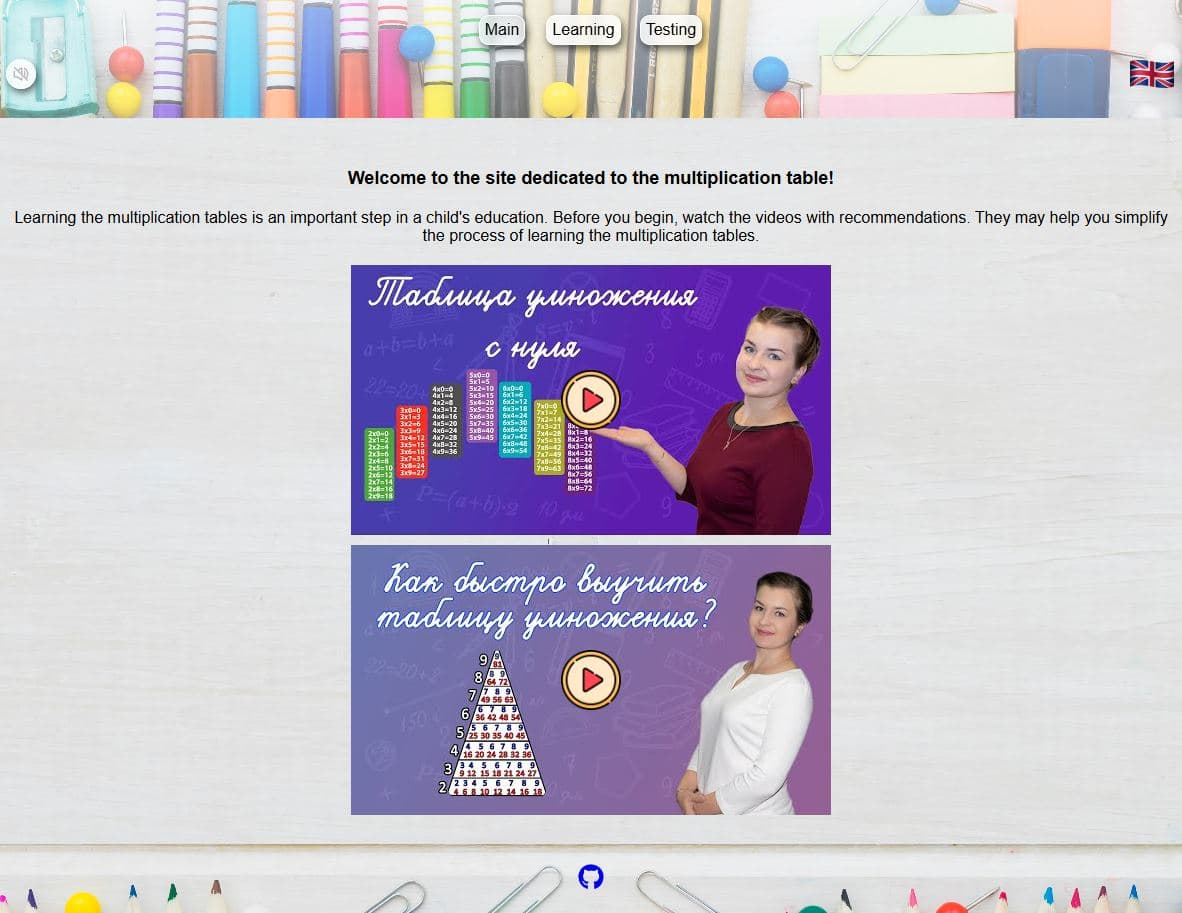
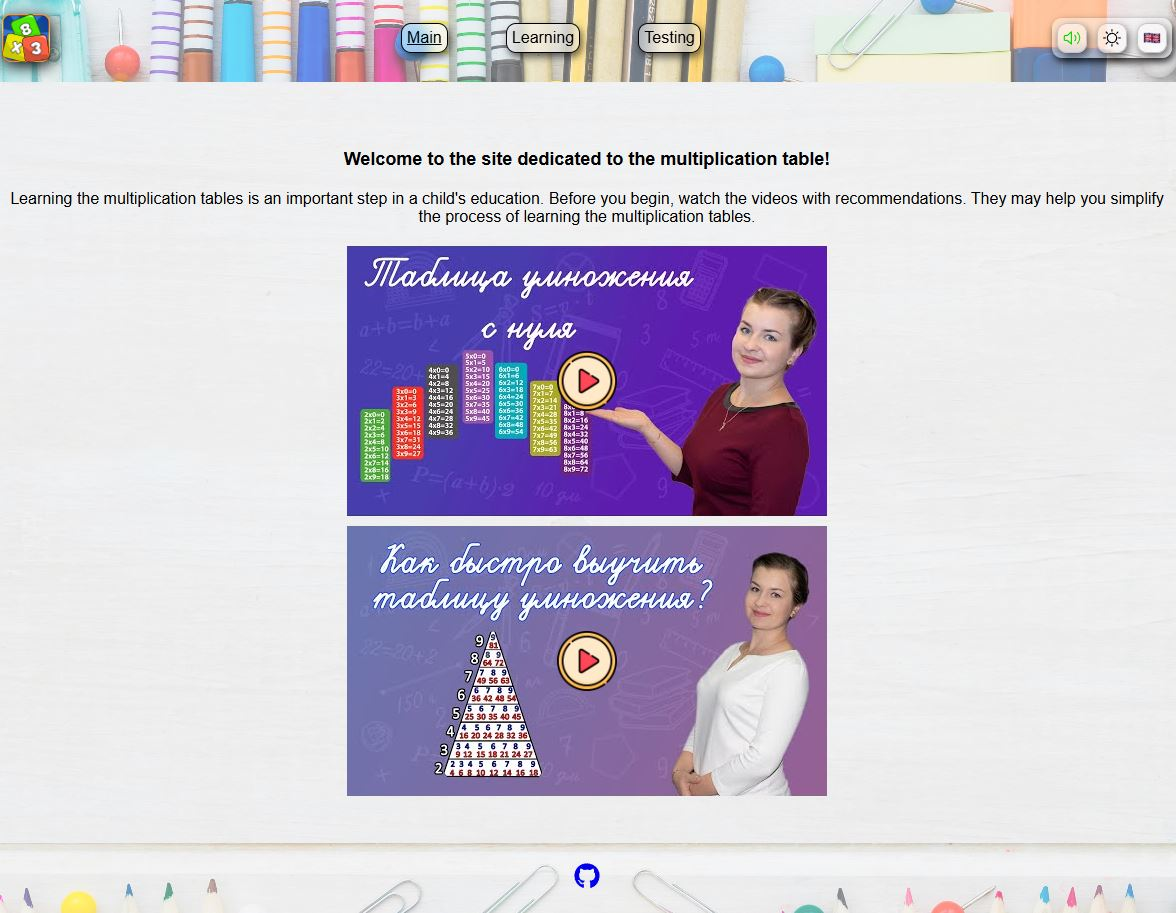
update readme file + fix

diff --git a/src/components/SettingsLearningPage/SettingsLearningPage.module.css b/src/components/SettingsLearningPage/SettingsLearningPage.module.css
@@ -33,7 +33,8 @@
   border: 1px solid var(--main-text-color);
   border-radius: 3px;
   background-color: var(--background-gradient);
-  transition: background-color 0.3s ease-in-out;
+  color: var(--main-text-color);
+  transition: var(--transition);
   box-shadow: 2px 4px 8px rgba(0, 0, 0, 0.6);
 }
 

diff --git a/README.md b/README.md
@@ -1,4 +1,9 @@
-# Сайт для изучения таблицы умножения
+# Сайт для изучения таблицы умножения / Learning the multiplication table
+
+- Pet-проект / Pet-project.
+- Поддерживает языки: русский, украинский, английский / Supports languages: Russian, Ukrainian, English.
+- Темная тема / Dark theme.
+- Отключаемый звук уведомлений / Mutable notifications sound.
 
 ![](/public/demo1.JPG)
 ![](/public/demo2.JPG)
